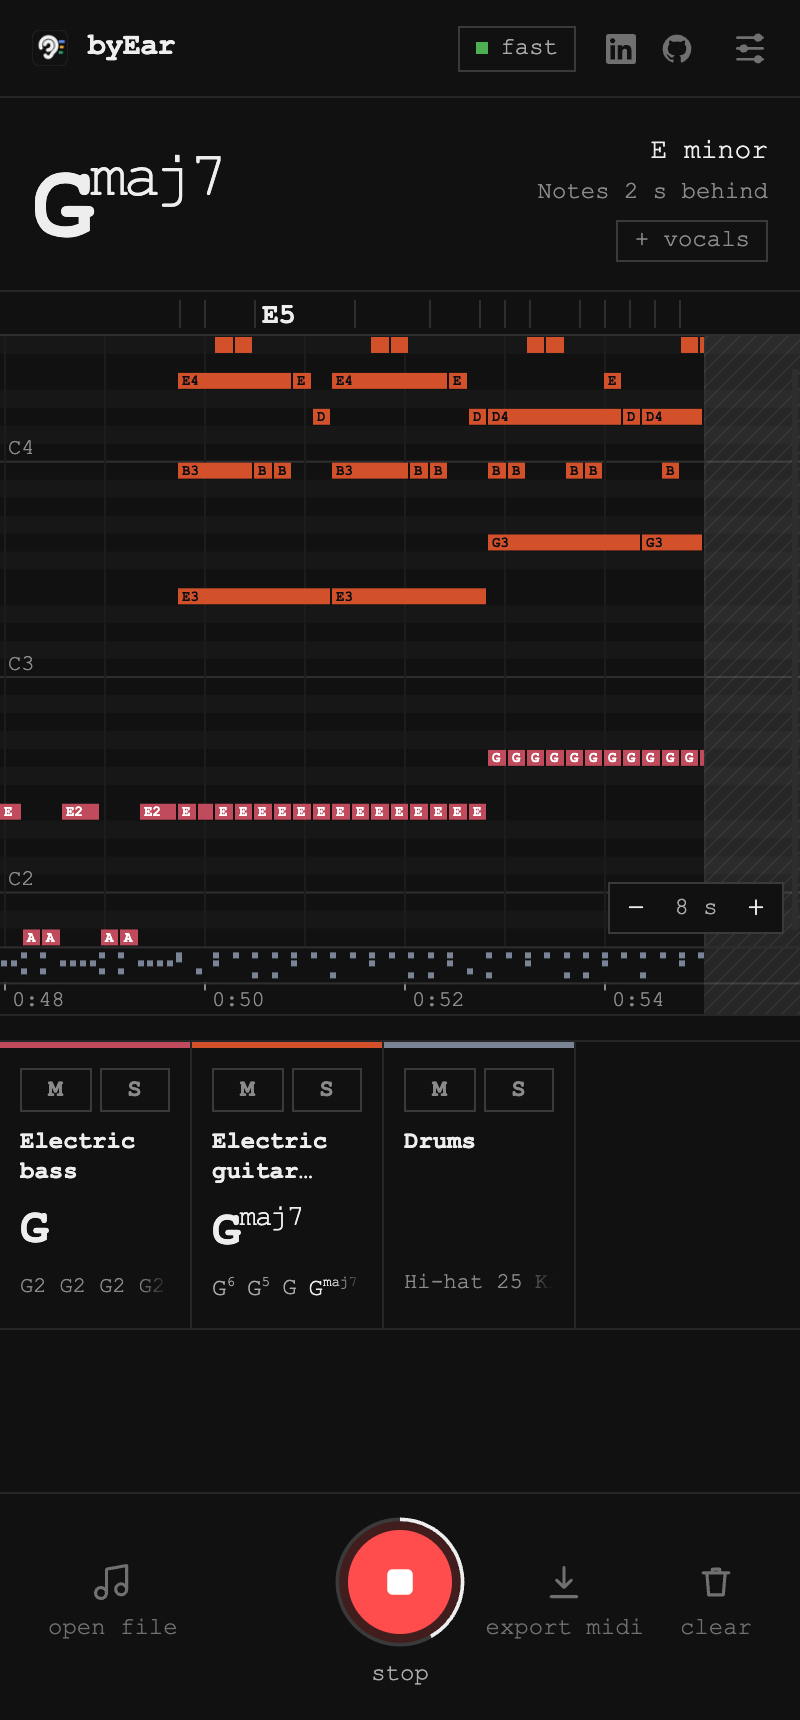
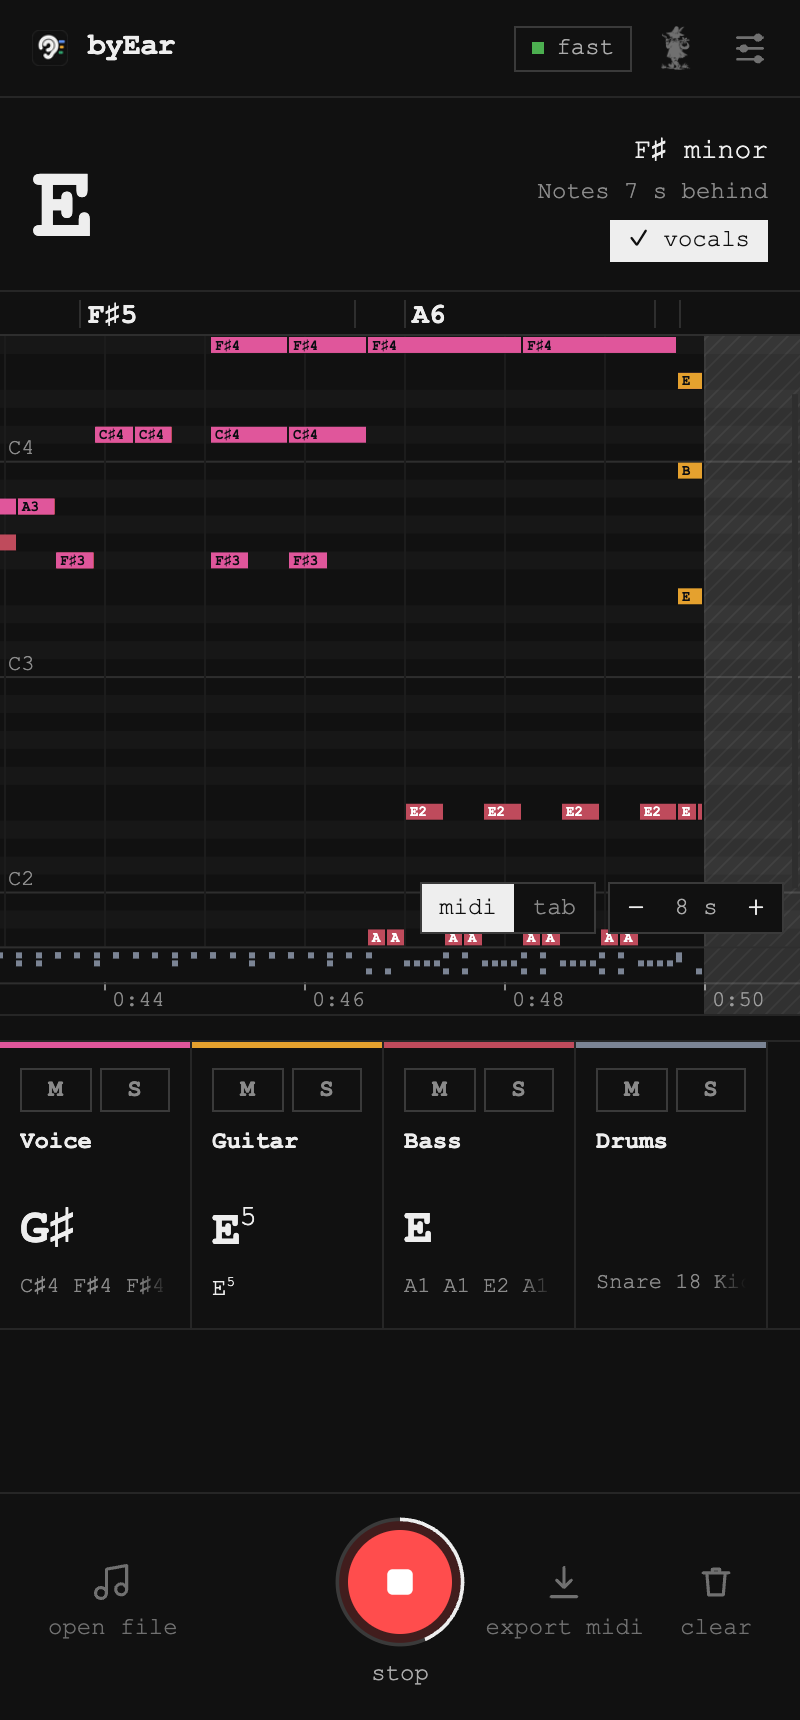
Store listing for v0.7.0: new screenshots (tabs, practice), description and changes since v0.2.0; fresh README screenshot

diff --git a/tools/store/make_shots.py b/tools/store/make_shots.py
@@ -20,38 +20,50 @@ REVIEW = """(async () => {
   const d = panel().document;
   const sleep = (ms) => new Promise((r) => setTimeout(r, ms));
   for (let i = 0; i < 40 && d.getElementById('transport').hidden; i++) await sleep(500);
+  // Let the improving pass finish (final notes and fingering), then close its message.
+  for (let i = 0; i < 240 && !/improved/i.test(d.getElementById('bannerText').textContent); i++) await sleep(500);
+  await sleep(300);
+  d.getElementById('bannerClose').click();
   d.querySelector('[data-mode=midi]').click();
+  d.getElementById('speedBtn').click(); // 75%: practice speed
   const s = d.getElementById('scrub'); s.value = 700; s.dispatchEvent(new Event('change'));
   d.getElementById('playBtn').click(); await sleep(2500); d.getElementById('playBtn').click();
   return d.getElementById('timeLabel').textContent;
 })()"""
 
-# Mute the bass so the roll zooms onto the guitar and every note gets a label.
-HIDE_BASS = """(async () => {
+# Tab view, in review, parked on a stretch with guitar and bass.
+TAB = """(async () => {
   const d = panel().document;
-  const row = [...d.querySelectorAll('.inst')].find((r) => /bass/i.test(r.textContent));
-  row?.querySelector('.mute').click();
-  await new Promise((r) => setTimeout(r, 1800));
-  return !!row;
+  const sleep = (ms) => new Promise((r) => setTimeout(r, ms));
+  for (let i = 0; i < 40 && d.getElementById('transport').hidden; i++) await sleep(500);
+  // Let the improving pass finish (final notes and fingering), then close its message.
+  for (let i = 0; i < 240 && !/improved/i.test(d.getElementById('bannerText').textContent); i++) await sleep(500);
+  await sleep(300);
+  d.getElementById('bannerClose').click();
+  // Solo the guitar: one clear staff, the way you'd practise a part.
+  [...d.querySelectorAll('.inst')].find((r) => /guitar/i.test(r.textContent))?.querySelector('.solo')?.click();
+  const s = d.getElementById('scrub'); s.value = 680; s.dispatchEvent(new Event('change'));
+  await sleep(1500);
+  return d.getElementById('timeLabel').textContent;
 })()"""
 
 SHOTS = [
-    dict(name='1-live-chords', after=60, rollh=230, state=dict(accepted=True, zoom=8),
+    dict(name='1-live-chords', after=60, rollh=230, state=dict(accepted=True, zoom=8, vocals=True),
          title='Hear a song, see its chords.',
          sub='byEar listens to any tab (YouTube, Spotify, a lesson video) and writes out the chords, notes and key while the music plays.',
          points=['chords for every instrument', 'the key of the song', 'private: runs on your GPU']),
-    dict(name='2-instruments', after=60, rollh=150, state=dict(accepted=True, zoom=12),
-         title='Every instrument, its own part.',
-         sub='Guitar, bass, piano, voice, strings and drums: each one gets its own channel with its chords or notes.',
-         points=['mute and solo, like a mixer', 'chords and single lines', 'drum hits by name']),
-    dict(name='3-notes', after=58, eval=HIDE_BASS, state=dict(accepted=True, zoom=5),
-         title='Every note, labelled.',
-         sub='Zoom into the piano roll to read each note by name and octave. Learn the part, then play it.',
-         points=['zoom from 3 to 60 seconds', 'sharps and flats follow the key', 'clean dark piano roll']),
-    dict(name='4-review-midi', after=63, state=dict(accepted=True, zoom=8), eval=REVIEW,
-         title='Play it back as MIDI.',
-         sub='When the song ends, switch between the original and the MIDI version, click to jump anywhere, and export a MIDI file for your DAW.',
-         points=['original or midi, one click', 'export one track per instrument', 'nothing leaves your computer']),
+    dict(name='2-instruments', after=60, rollh=150, state=dict(accepted=True, zoom=12, vocals=True),
+         title='Every instrument, its own channel.',
+         sub='Voice, guitar, keys, bass and drums each get a channel strip with its chords or notes. Mute, solo, or drag them into your own order.',
+         points=['mute and solo, like a mixer', 'vocals, chords and single lines', 'drum hits by name']),
+    dict(name='3-tabs', after=63, state=dict(accepted=True, zoom=5, view='tab'), eval=TAB,
+         title='Guitar and bass tabs.',
+         sub='Switch to tab and every part is fingered the way a player would: hand positions, open strings where they fit, standard chord shapes.',
+         points=['7-string guitar and 5-string bass', 'click a fret to hear it', 'move a note to another string']),
+    dict(name='4-review-midi', after=63, state=dict(accepted=True, zoom=8, vocals=True), eval=REVIEW,
+         title='Practise it, fix it, export it.',
+         sub='When the song ends, play it back as MIDI or the original, slow it down, click any note to hear it, correct it, and export a MIDI file for your DAW.',
+         points=['75% and 50% speed, same pitch', 'fix notes with Alt + arrow keys', 'one MIDI track per instrument']),
     dict(name='5-languages', after=57, state=dict(accepted=True, zoom=8, lang='fr'),
          title='Your language, your note names.',
          sub='18 languages, with notes named the way you learned them: C D E, Do Ré Mi, or C D E … H.',

diff --git a/docs/store/listing.md b/docs/store/listing.md
@@ -1,0 +1,67 @@
+# Chrome Web Store listing (v0.7.0)
+
+## Name
+
+byEar – Chord Finder & Audio to MIDI
+
+## Summary (132 characters max)
+
+Shows the chords, notes and key of the music in a browser tab, as a piano roll or guitar tabs. Runs on your device. Exports MIDI.
+
+## Description
+
+Hear a song, see its chords.
+
+byEar listens to the music playing in any tab (YouTube, Spotify, a lesson video) and writes out the chords, notes and key while it plays, in a side panel next to the video.
+
+WHAT YOU GET
+• Chords for every instrument. Voice, guitar, keys, bass and drums each get their own channel strip with its chords or notes, plus mute and solo buttons like a mixer. Drag the channels into your own order.
+• The vocal line. Switch on "vocals" for songs with singing and byEar follows the melody too.
+• Guitar and bass tabs. Switch the canvas from "midi" to "tab". Parts are fingered the way a player would: hand positions, few jumps, open strings where they fit, standard chord shapes. Goes to 7-string guitar and 5-string bass when a part goes that low.
+• A cleaner result after you stop. byEar writes along a few seconds behind the music, then listens to the whole recording again for a better transcription.
+• Practise. Play back the original audio or the MIDI, at 100%, 75% or 50% (same pitch), and click anywhere to jump there.
+• Hear and fix notes. Click a note to hear it. Alt + arrow keys move it a semitone, Delete removes it, and in tab view the arrow keys move it to another string. Your fixes go into the chords and the export.
+• Export MIDI. One click, one track per instrument, ready for your DAW.
+• 18 languages, with note names the way you learned them: C D E, Do Ré Mi, or C D E … H.
+
+PRIVATE BY DESIGN
+The music is transcribed on your own computer, on your GPU (WebGPU). No audio is uploaded anywhere, there's no account, and no tracking. The only download is the transcription model itself, once, from Hugging Face.
+
+GOOD TO KNOW
+• Needs a GPU with WebGPU (most computers from the last few years).
+• Notes appear about 5 seconds after you hear them: byEar listens in 5-second slices.
+• Settings let you pick the "accurate" model (catches more, needs a stronger GPU) and tell byEar which instruments to listen for.
+
+Made by jenyadoesapps — https://jenyadoesapps.com
+Transcription model: MuScriptor (open source).
+
+## Screenshots (1280×800, 24-bit PNG, no alpha)
+
+1. `1-live-chords.png` — Hear a song, see its chords.
+2. `2-instruments.png` — Every instrument, its own channel.
+3. `3-tabs.png` — Guitar and bass tabs.
+4. `4-review-midi.png` — Practise it, fix it, export it.
+5. `5-languages.png` — Your language, your note names.
+
+Promo tile: `promo-tile-440x280.png` (unchanged).
+
+## What changed since the last submission (v0.2.0 → v0.7.0)
+
+New
+• Guitar and bass tablature, with natural fingering: hand positions, open strings where they fit, standard chord shapes; 7-string guitar and 5-string bass.
+• Practice speed: 75% and 50%, the original keeps its pitch.
+• Click a note to hear it; fix it with Alt + arrow keys or Delete; move it to another string in tab view.
+• MIDI playback is the default after a song; the vocal line plays as a violin, a little louder than the band.
+• Drag channel strips to reorder them (tab staffs follow). Default order: voice, guitar, keys, bass, drums.
+• Zoom in to 1 second, for fast passages.
+
+Better
+• Vocals: a dedicated voice pass that leaves the other instruments untouched, and it no longer drops out on some 5-second slices.
+• No more missing 5-second slices in the notes, live or after the improving pass.
+• Quiet audio is levelled automatically; the first notes of a song are no longer lost.
+• Plain part names: "Guitar" and "Bass" instead of electric/acoustic/distorted variants.
+• Easier note picking in tab view; smaller tooltips that don't cover the notes.
+• Faster on long sessions (an hour of music stays smooth).
+• The progress message pulses while the transcription is being improved.
+
+Privacy: unchanged. Audio never leaves the device; the only network request is the model download from Hugging Face.
